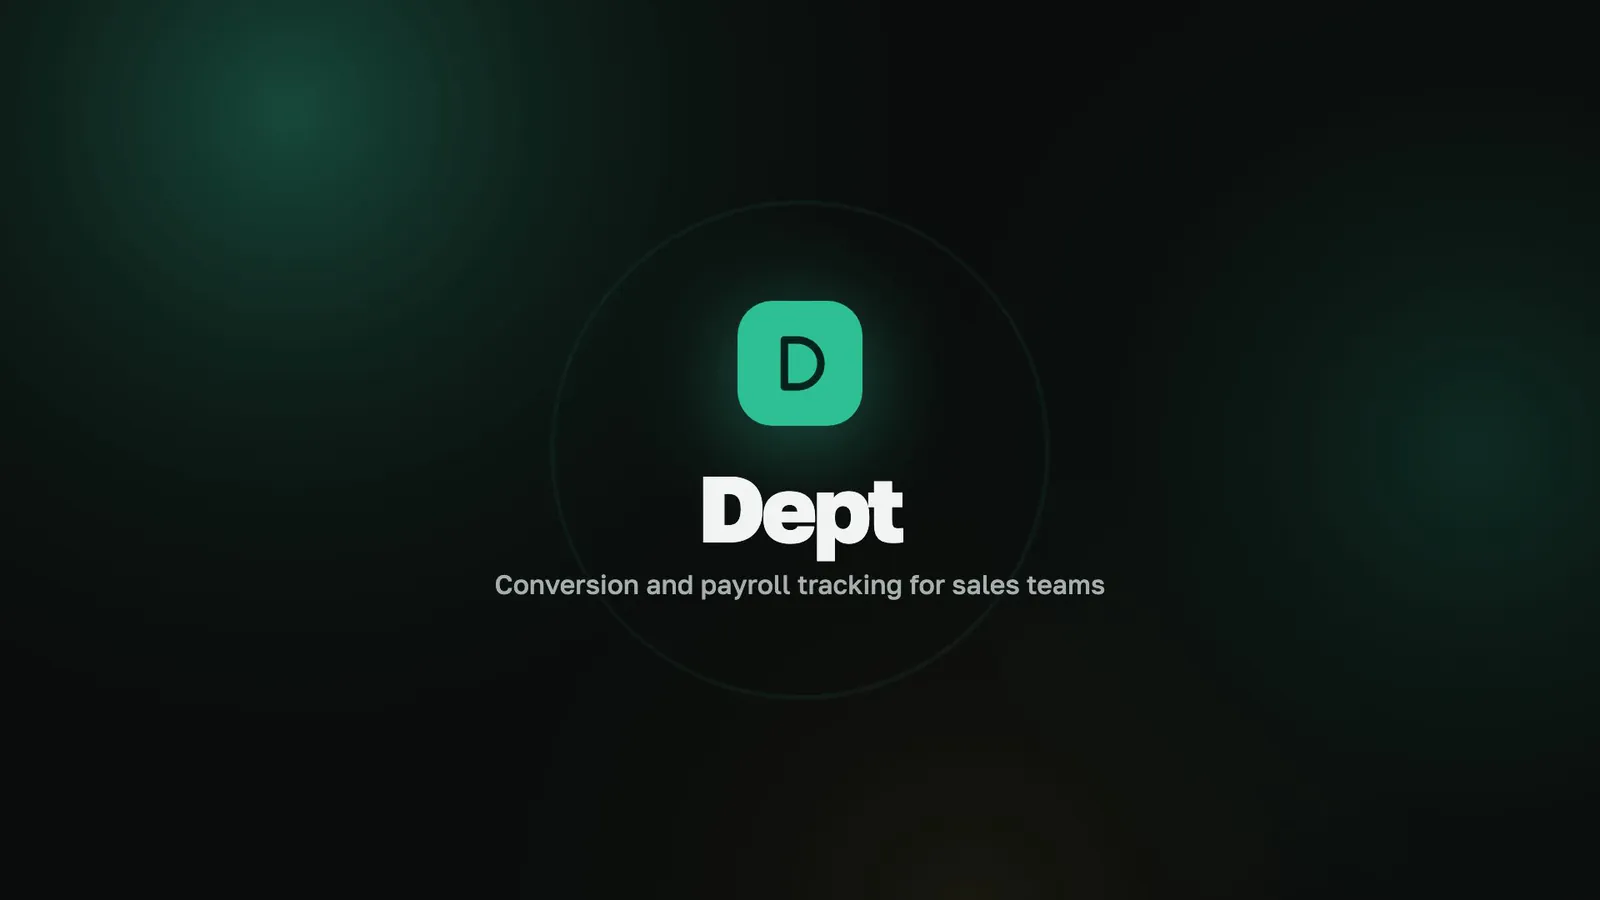
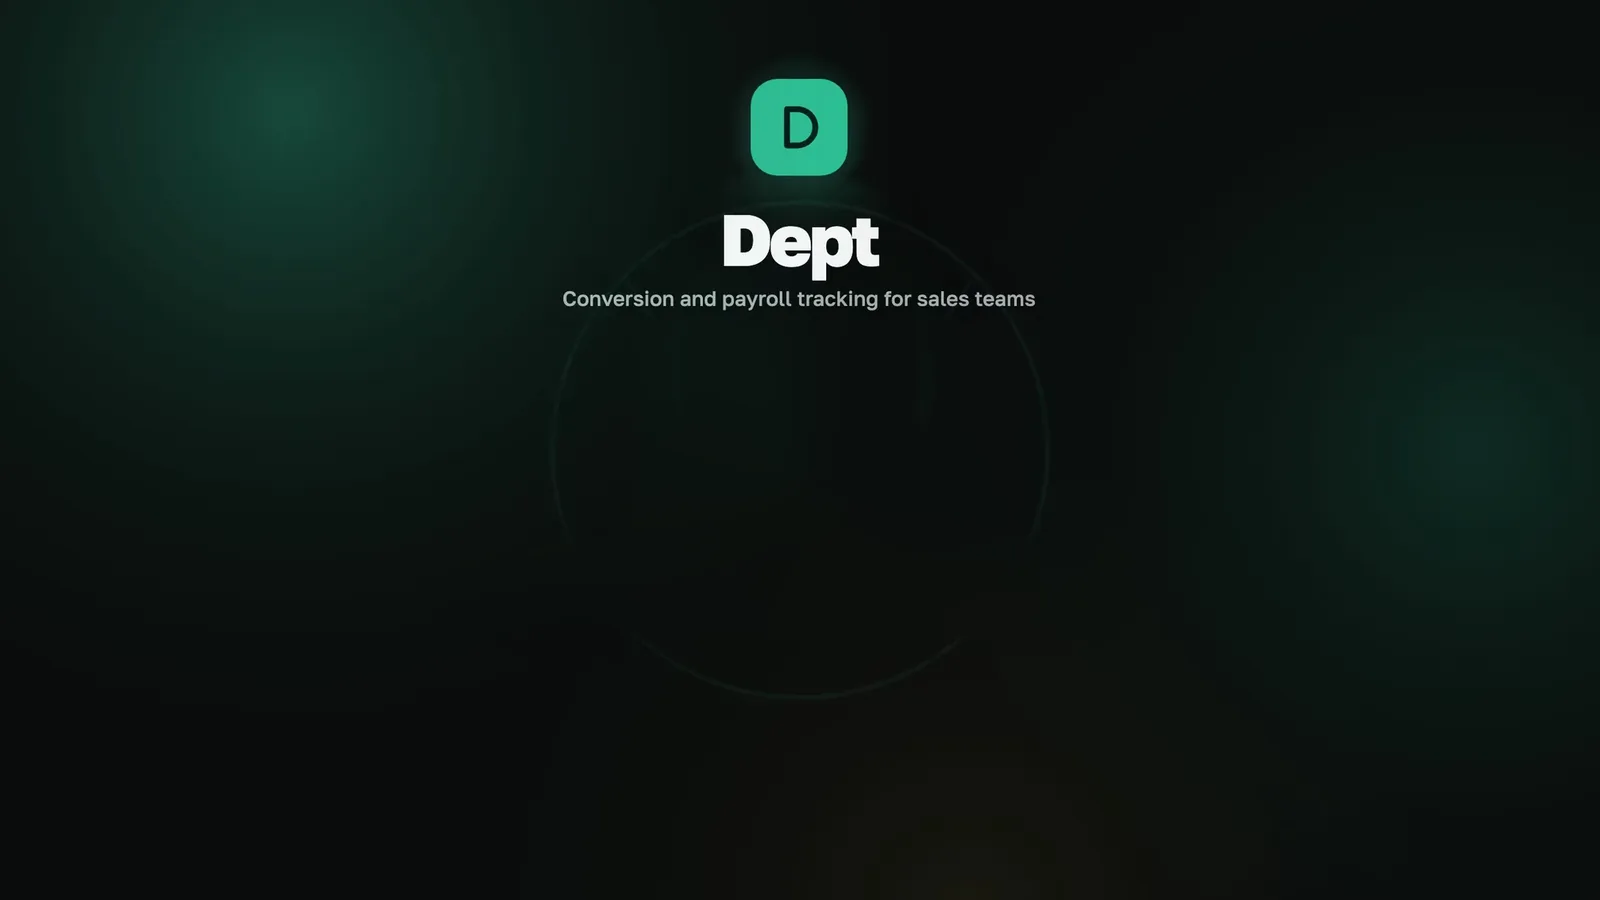
feat: все ролики портфолио запускаются только по «плей», без повтора; обложки пересобраны — название над кнопкой «плей», у «Зарплаты» кнопка в просвете между телефоном и текстом (RU/EN)

Changed region(s): [[0.3438, 0.2178, 0.6562, 0.4978], [0.3125, 0.5289, 0.6875, 0.6844], [0.4688, 0.0622, 0.5312, 0.2178]]

diff --git a/en/index.html b/en/index.html
@@ -748,7 +748,7 @@
       <div class="works-in">
     <article class="work">
       <div class="work-media">
-        <video class="work-video" data-v="voronka" muted loop playsinline preload="none" poster="/assets/video/voronka-ii-en-poster.webp" aria-label="Video overview of the AI Funnel extension">
+        <video class="work-video" data-v="voronka" muted playsinline preload="none" poster="/assets/video/voronka-ii-en-poster.webp?v=2" aria-label="Video overview of the AI Funnel extension">
           <source src="/assets/video/voronka-ii-en.mp4?v=2" type="video/mp4">
         </video>
         <button class="work-play" type="button" aria-label="Play video">
@@ -777,7 +777,7 @@
 
     <article class="work work--rev">
       <div class="work-media">
-        <video class="work-video" data-v="omnix" muted loop playsinline preload="none" poster="/assets/video/omnix-en-poster.webp" aria-label="Video overview of the Omnix CRM">
+        <video class="work-video" data-v="omnix" muted playsinline preload="none" poster="/assets/video/omnix-en-poster.webp?v=2" aria-label="Video overview of the Omnix CRM">
           <source src="/assets/video/omnix-en.mp4?v=2" type="video/mp4">
         </video>
         <button class="work-play" type="button" aria-label="Play video">
@@ -807,7 +807,7 @@
 
     <article class="work">
       <div class="work-media">
-        <video class="work-video" data-v="okk" muted loop playsinline preload="none" poster="/assets/video/okk-en-poster.webp?v=3" aria-label="Video overview of the quality control service">
+        <video class="work-video" data-v="okk" muted playsinline preload="none" poster="/assets/video/okk-en-poster.webp?v=4" aria-label="Video overview of the quality control service">
           <source src="/assets/video/okk-en.mp4?v=3" type="video/mp4">
         </video>
         <button class="work-play" type="button" aria-label="Play video">
@@ -836,7 +836,7 @@
 
     <article class="work work--rev">
       <div class="work-media">
-        <video class="work-video" data-v="kc" muted loop playsinline preload="none" poster="/assets/video/kc-en-poster.webp?v=2" aria-label="Video overview of the call center extension">
+        <video class="work-video" data-v="kc" muted playsinline preload="none" poster="/assets/video/kc-en-poster.webp?v=3" aria-label="Video overview of the call center extension">
           <source src="/assets/video/kc-en.mp4" type="video/mp4">
         </video>
         <button class="work-play" type="button" aria-label="Play video">
@@ -870,7 +870,7 @@
 
     <article class="work">
       <div class="work-media">
-        <video class="work-video" data-v="dept" muted loop playsinline preload="none" poster="/assets/video/dept-en-poster.webp" aria-label="Video overview of the Dept prototype">
+        <video class="work-video" data-v="dept" muted playsinline preload="none" poster="/assets/video/dept-en-poster.webp?v=2" aria-label="Video overview of the Dept prototype">
           <source src="/assets/video/dept-en.mp4?v=2" type="video/mp4">
         </video>
         <button class="work-play" type="button" aria-label="Play video">
@@ -904,7 +904,7 @@
 
     <article class="work work--rev">
       <div class="work-media">
-        <video class="work-video" data-v="payroll" muted loop playsinline preload="none" poster="/assets/video/payroll-en-poster.webp" aria-label="Video overview of the sales team payroll service">
+        <video class="work-video" data-v="payroll" muted playsinline preload="none" poster="/assets/video/payroll-en-poster.webp?v=2" aria-label="Video overview of the sales team payroll service">
           <source src="/assets/video/payroll-en.mp4" type="video/mp4">
         </video>
         <button class="work-play" type="button" aria-label="Play video">
@@ -1525,14 +1525,13 @@
   // ---------- видео в портфолио: грузится и играет, только когда на экране ----------
   document.querySelectorAll('.work-media').forEach(box=>{
     const v = box.querySelector('video'), bar = box.querySelector('.work-progress i');
-    const reduce = matchMedia('(prefers-reduced-motion: reduce)').matches;
-    let userPaused = false, raf = 0, played = false, done = false;
+    let raf = 0, played = false, done = false;
     const vname = v.dataset.v || 'video';
     const tick = ()=>{ if(v.duration) bar.style.transform = 'scaleX(' + (v.currentTime / v.duration) + ')'; raf = requestAnimationFrame(tick); };
     v.addEventListener('play',  ()=>{ box.classList.add('playing'); cancelAnimationFrame(raf); tick(); if(!played){ played = true; track('video_play', vname); } });
     v.addEventListener('timeupdate', ()=>{ if(!done && v.duration && v.currentTime / v.duration > .95){ done = true; track('video_done', vname); } });
     v.addEventListener('pause', ()=>{ box.classList.remove('playing'); cancelAnimationFrame(raf); });
-    const toggle = ()=>{ if(v.paused){ userPaused = false; v.play().catch(()=>{}); } else { userPaused = true; v.pause(); } };
+    const toggle = ()=>{ if(v.paused) v.play().catch(()=>{}); else v.pause(); };
     v.addEventListener('click', toggle);
     box.querySelector('.work-play').addEventListener('click', toggle);
     // на весь экран — с родными контролами (на iPhone — системный плеер)
@@ -1545,12 +1544,9 @@
     });
     document.addEventListener('fullscreenchange', ()=>{ if(!document.fullscreenElement) v.controls = false; });
     v.addEventListener('webkitendfullscreen', ()=>{ v.controls = false; });
-    // автозапуск в зоне видимости (без звука — в ролике его нет), пауза вне экрана
+    // ролики не крутятся сами — только по «плей»; ушёл с экрана — пауза
     new IntersectionObserver(([e])=>{
-      if(e.isIntersecting){
-        if(v.preload !== 'auto'){ v.preload = 'auto'; v.load(); }
-        if(!reduce && !userPaused) v.play().catch(()=>{});
-      } else if(!v.paused && !document.fullscreenElement){ v.pause(); }
+      if(!e.isIntersecting && !v.paused && !document.fullscreenElement) v.pause();
     }, {threshold:.4}).observe(box);
   });
 

diff --git a/index.html b/index.html
@@ -757,7 +757,7 @@
       <div class="works-in">
     <article class="work">
       <div class="work-media">
-        <video class="work-video" data-v="voronka" muted loop playsinline preload="none" poster="assets/video/voronka-ii-poster.webp" aria-label="Видеообзор расширения «Воронка ИИ»">
+        <video class="work-video" data-v="voronka" muted playsinline preload="none" poster="assets/video/voronka-ii-poster.webp?v=2" aria-label="Видеообзор расширения «Воронка ИИ»">
           <source src="assets/video/voronka-ii.mp4" type="video/mp4">
         </video>
         <button class="work-play" type="button" aria-label="Воспроизвести видео">
@@ -817,7 +817,7 @@
 
     <article class="work">
       <div class="work-media">
-        <video class="work-video" data-v="okk" muted loop playsinline preload="none" poster="assets/video/okk-poster.webp?v=2" aria-label="Видеообзор сервиса контроля качества">
+        <video class="work-video" data-v="okk" muted playsinline preload="none" poster="assets/video/okk-poster.webp?v=3" aria-label="Видеообзор сервиса контроля качества">
           <source src="assets/video/okk.mp4?v=2" type="video/mp4">
         </video>
         <button class="work-play" type="button" aria-label="Воспроизвести видео">
@@ -846,7 +846,7 @@
 
     <article class="work work--rev">
       <div class="work-media">
-        <video class="work-video" data-v="kc" muted loop playsinline preload="none" poster="assets/video/kc-poster.webp?v=3" aria-label="Видеообзор расширения для колл-центра">
+        <video class="work-video" data-v="kc" muted playsinline preload="none" poster="assets/video/kc-poster.webp?v=4" aria-label="Видеообзор расширения для колл-центра">
           <source src="assets/video/kc.mp4?v=2" type="video/mp4">
         </video>
         <button class="work-play" type="button" aria-label="Воспроизвести видео">
@@ -880,7 +880,7 @@
 
     <article class="work">
       <div class="work-media">
-        <video class="work-video" data-v="dept" muted loop playsinline preload="none" poster="assets/video/dept-poster.webp" aria-label="Видеообзор прототипа Dept">
+        <video class="work-video" data-v="dept" muted playsinline preload="none" poster="assets/video/dept-poster.webp?v=2" aria-label="Видеообзор прототипа Dept">
           <source src="assets/video/dept.mp4" type="video/mp4">
         </video>
         <button class="work-play" type="button" aria-label="Воспроизвести видео">
@@ -914,7 +914,7 @@
 
     <article class="work work--rev">
       <div class="work-media">
-        <video class="work-video" data-v="payroll" muted loop playsinline preload="none" poster="assets/video/payroll-poster.webp" aria-label="Видеообзор сервиса расчёта зарплаты отдела продаж">
+        <video class="work-video" data-v="payroll" muted playsinline preload="none" poster="assets/video/payroll-poster.webp?v=2" aria-label="Видеообзор сервиса расчёта зарплаты отдела продаж">
           <source src="assets/video/payroll.mp4" type="video/mp4">
         </video>
         <button class="work-play" type="button" aria-label="Воспроизвести видео">
@@ -1535,14 +1535,13 @@
   // ---------- видео в портфолио: грузится и играет, только когда на экране ----------
   document.querySelectorAll('.work-media').forEach(box=>{
     const v = box.querySelector('video'), bar = box.querySelector('.work-progress i');
-    const reduce = matchMedia('(prefers-reduced-motion: reduce)').matches;
-    let userPaused = false, raf = 0, played = false, done = false;
+    let raf = 0, played = false, done = false;
     const vname = v.dataset.v || 'video';
     const tick = ()=>{ if(v.duration) bar.style.transform = 'scaleX(' + (v.currentTime / v.duration) + ')'; raf = requestAnimationFrame(tick); };
     v.addEventListener('play',  ()=>{ box.classList.add('playing'); cancelAnimationFrame(raf); tick(); if(!played){ played = true; track('video_play', vname); } });
     v.addEventListener('timeupdate', ()=>{ if(!done && v.duration && v.currentTime / v.duration > .95){ done = true; track('video_done', vname); } });
     v.addEventListener('pause', ()=>{ box.classList.remove('playing'); cancelAnimationFrame(raf); });
-    const toggle = ()=>{ if(v.paused){ userPaused = false; v.play().catch(()=>{}); } else { userPaused = true; v.pause(); } };
+    const toggle = ()=>{ if(v.paused) v.play().catch(()=>{}); else v.pause(); };
     v.addEventListener('click', toggle);
     box.querySelector('.work-play').addEventListener('click', toggle);
     // на весь экран — с родными контролами (на iPhone — системный плеер)
@@ -1565,13 +1564,9 @@
     if(snd) snd.addEventListener('click', ()=>{ if(v.muted){ setSound(true); track('video_sound', vname); } else setSound(false); });
     document.addEventListener('fullscreenchange', ()=>{ if(!document.fullscreenElement) v.controls = false; });
     v.addEventListener('webkitendfullscreen', ()=>{ v.controls = false; });
-    // автозапуск в зоне видимости без звука (кроме роликов с музыкой — те только по «плей»), пауза вне экрана
+    // ролики не крутятся сами — только по «плей»; ушёл с экрана — пауза
     new IntersectionObserver(([e])=>{
-      if(e.isIntersecting){
-        if(film) return;
-        if(v.preload !== 'auto'){ v.preload = 'auto'; v.load(); }
-        if(!reduce && !userPaused) v.play().catch(()=>{});
-      } else if(!v.paused && !document.fullscreenElement){ v.pause(); }
+      if(!e.isIntersecting && !v.paused && !document.fullscreenElement) v.pause();
     }, {threshold:.4}).observe(box);
   });
 
